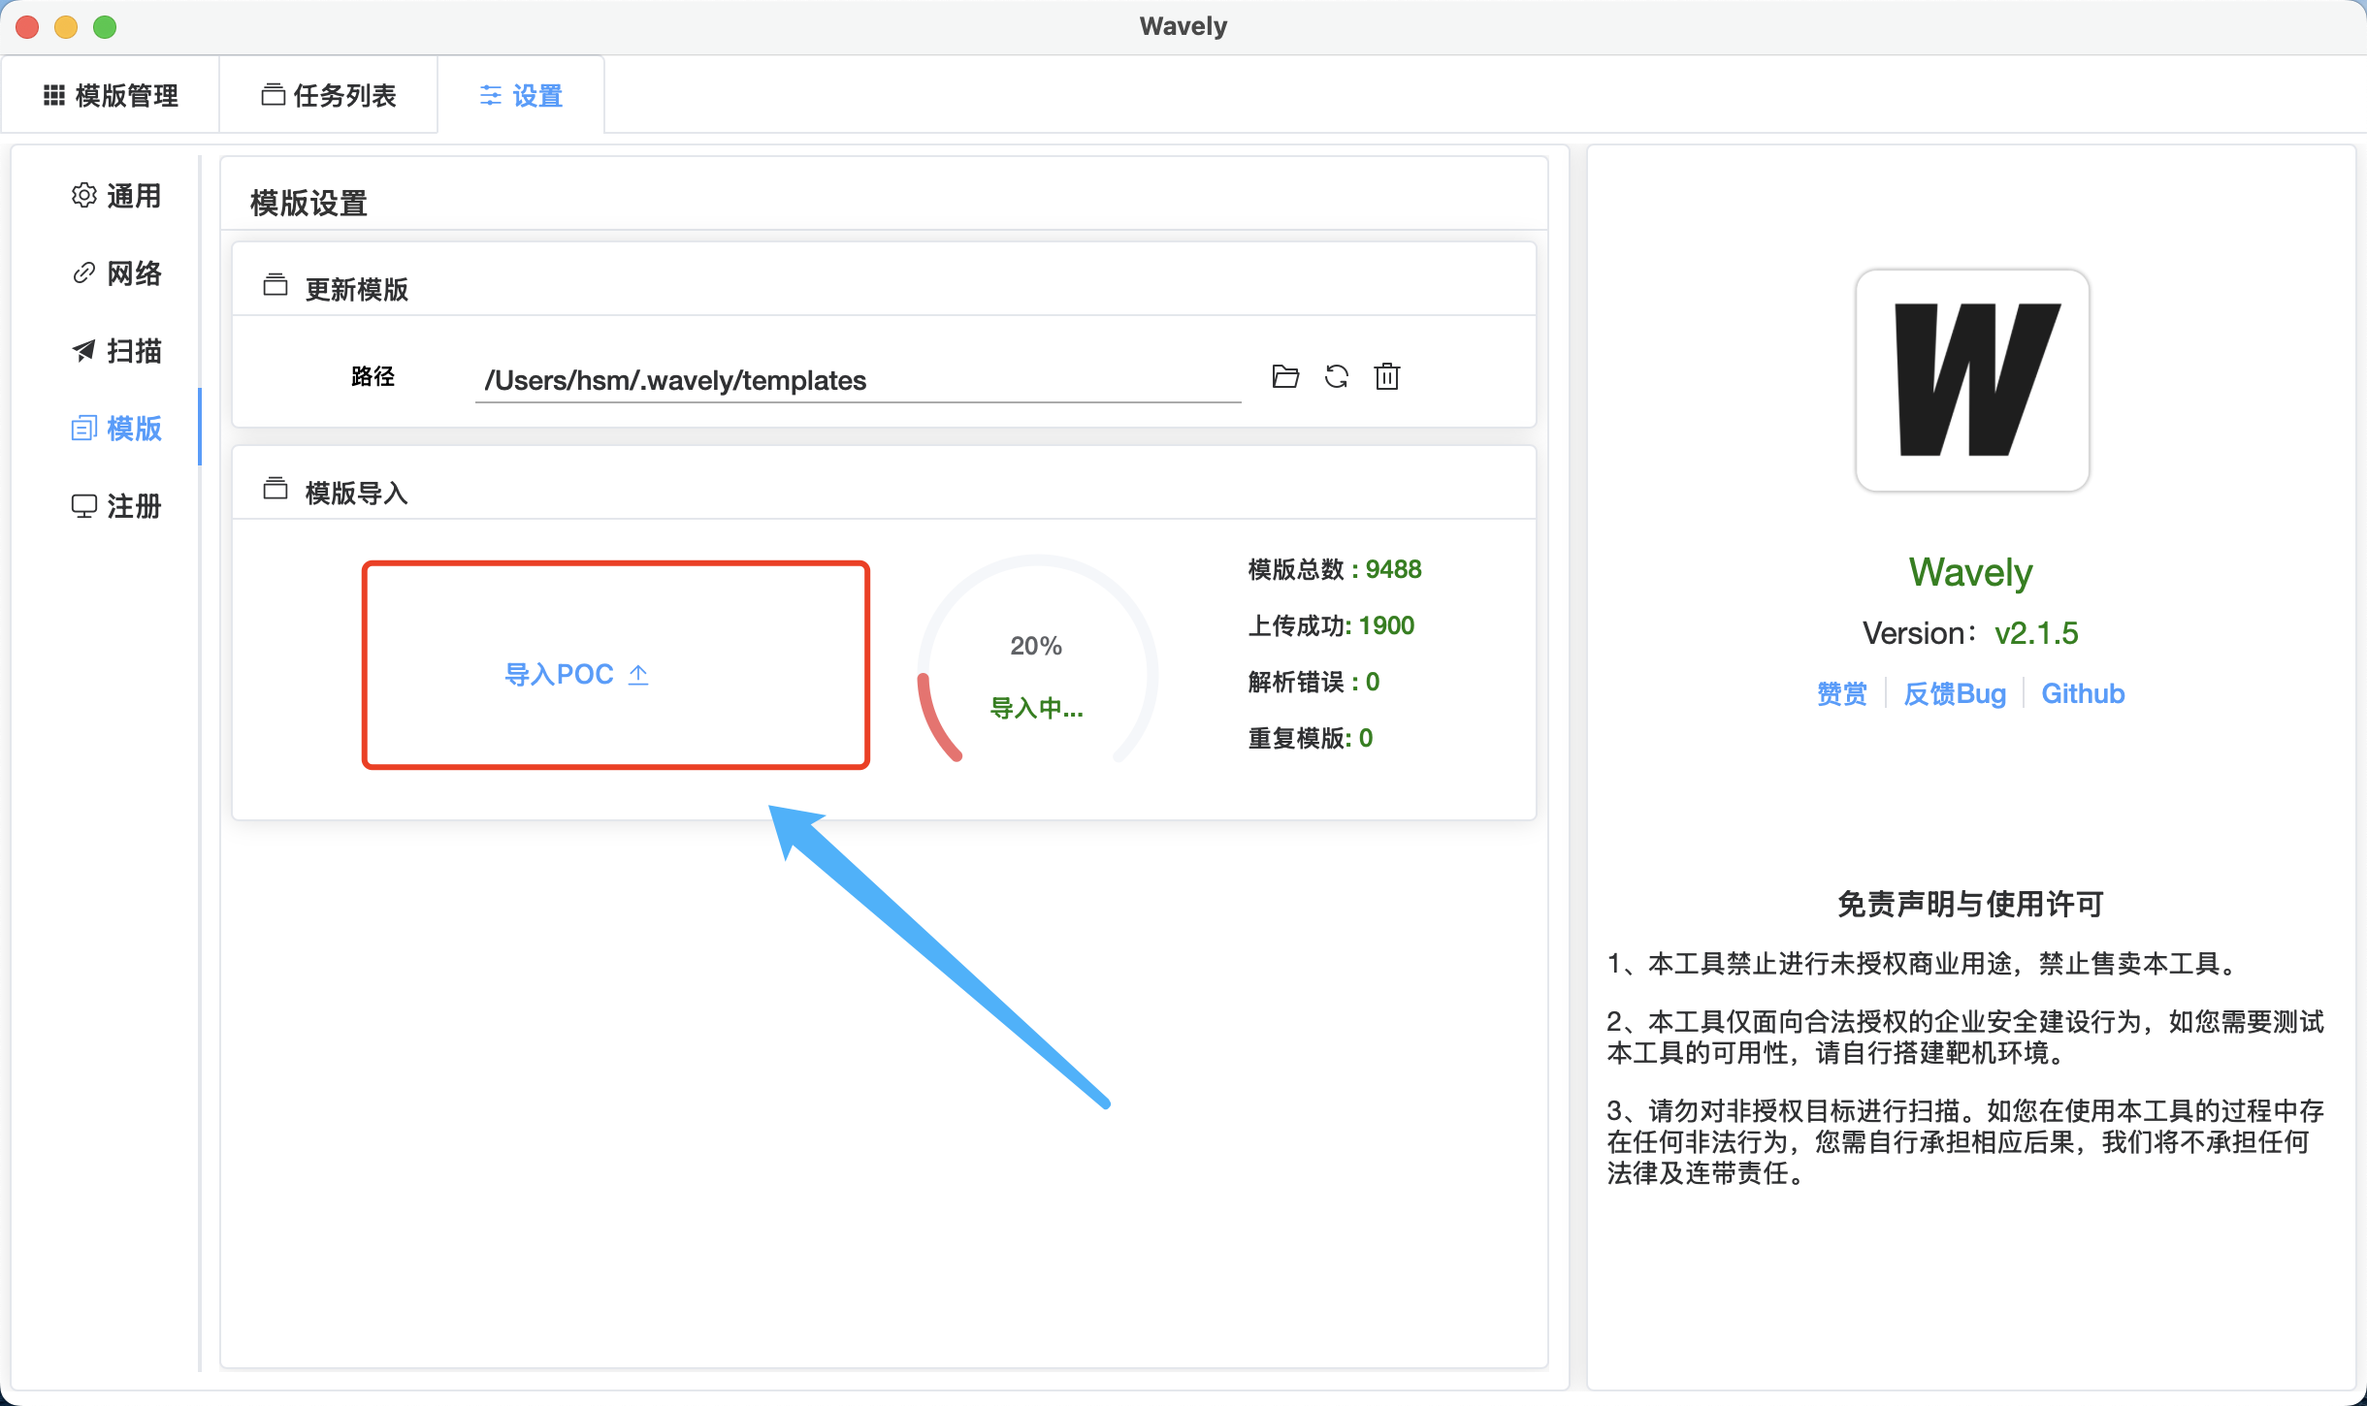
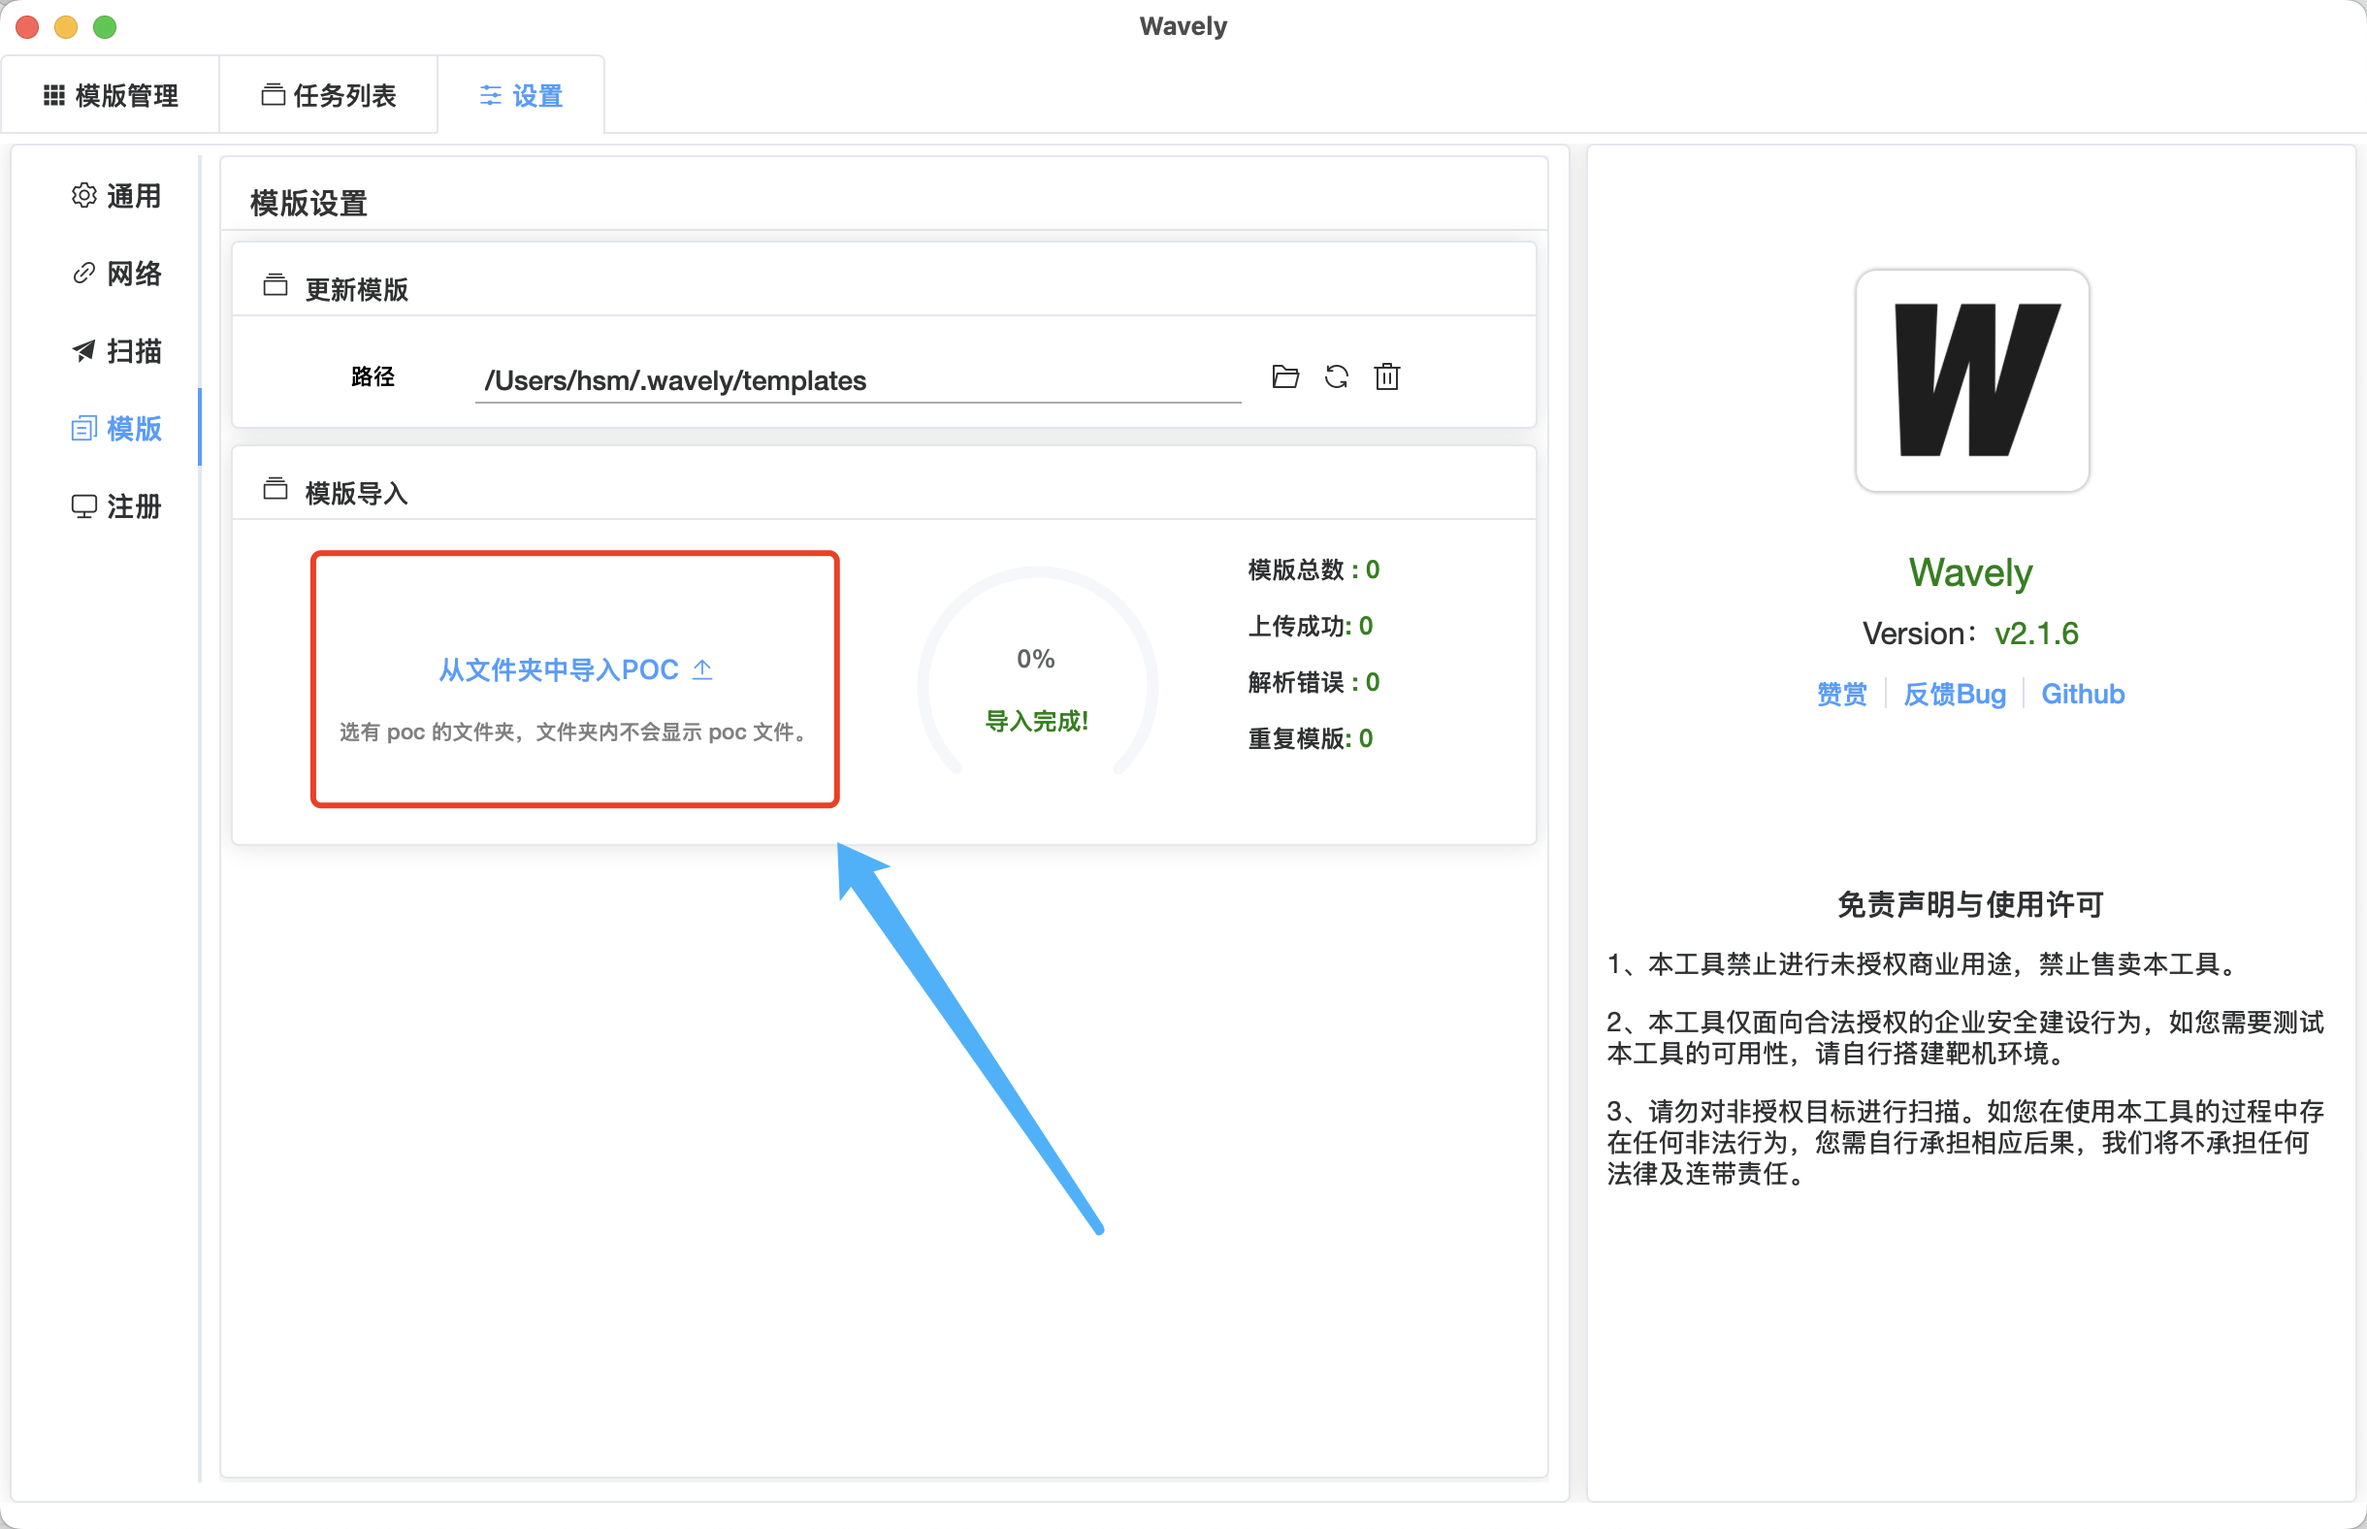
v2.1.6

diff --git a/README.md b/README.md
@@ -1,128 +1,109 @@
-## 1. wavely
+## Wavely - 高效便捷的 Nuclei POC 图形化管理利器
 
-- 一款便捷、实用的 POC 管理工具。
-- A convenient and practical Nuclei POC management tool.
+Wavely，一款为 Nuclei POC 管理打造的图形化工具。
 
-
-![main](imgs/2.png)
-
-- 下载链接：https://github.com/perlh/Wavely/releases/tag/v2.1.3
-- 开发Wavely投入了大量时间精力，只为它功能更强、运行更稳。若您使用时感受到价值，烦请[捐赠](#捐赠)，您的支持是我持续优化APP的动力，感谢！ 
-- **本工具严禁通过其他平台进行售卖**！
+![main](imgs/p1.png)
 
 
-### ✨ 功能
-- [x] 实现 `nuclei` `poc` 管理的桌面应用，对 `nuclei` 模版的增删查改操作
-- [x] 支持`MacOS`、`Windows`和`Linux`操作系统
-- [x] 实现`选择多个POC`、`多个扫描任务`和`多目标`并行扫描
-- [x] 支持自定义 `DNSLOG服务器`，支持`自定义扫描速率`和支持`http代理`（http、https、socks5）
-- [x] 支持查看 POC 匹配到的请求包和响应包
-- [x] 使用全新`nuclei v3`检测引擎，兼容 yamlv2 和 yamlv3 nuclei template
-- [x] 支持 **POC 编辑器**主题切换
-- [x] 支持多种 `nuclei` 模版导入方式
-- [x] 支持 `nuclei` 模版去重导入
-- [x] 支持国际化（支持**简体中文**和**英文**，已覆盖大部分区域）
-- [x] 支持手动停止扫描任务
-- [x] 支持配置持久化
-- [x] 支持API扫描（支持带目录扫描，如：http://target.com/api）
-- [x] 支持图形化生成poc（简单poc）
+1. **安装包获取**：前往下载链接下载安装包，开启高效管理之旅。
+2. **捐赠支持**：若 Wavely 助力您提升工作效率，诚邀[捐赠](#捐赠)，您的支持是持续优化的关键动力，深表感谢！
+3. **常见问题**：关于使用与安装的常见疑问，可跳转至 [常见问题](#常见问题) 板块查阅。
 
-#### English
 
-- [x] A desktop application for managing `nuclei` `POC`, with operations of adding, deleting, querying and modifying `nuclei` templates.
-- [x] Support operating systems including `MacOS`, `Windows` and `Linux`.
-- [x] Realize parallel scanning of `selecting multiple POCs`, `multiple scanning tasks` and `multiple targets`.
-- [x] Support customizing `DNSLOG server`, support `customizing scanning rate` and support `http proxy` (http, https, socks5).
-- [x] Support viewing the request packets and response packets matched by POC.
-- [x] Use the brand-new `nuclei v3` detection engine, which is compatible with yamlv2 and yamlv3 nuclei templates.
-- [x] Support theme switching for the **POC editor**.
-- [x] Support multiple ways of importing `nuclei` templates.
-- [x] Support deduplicating and importing `nuclei` templates.
-- [x] Support internationalization (support **Simplified Chinese** and **English**).
-- [x] Support manually stopping scanning tasks.
-- [x] Support configuration persistence.
-- [x] Support API scanning (support scanning with directories, for example: http://target.com/api). 
+#### ✨ 功能一览
 
-## 2. 安装
-#### MacOS
-1. 下载相应压缩包并解压，解压文件夹中包含 `Wavely.app`和 `Applications文件夹`。
-2. 将`Wavely.app`拖到`Applications文件夹`中
-3. 终端执行:`sudo xattr -d com.apple.quarantine /Applications/Wavely.app`
+- [x] 实现对nuclei模板的`添加`、`删除`、`查询`以及`修改`操作。
+- [x] 兼容`MacOS`、`Windows`和`Linux`操作系统。
+- [x] 实现`选择多个POC`、`多个扫描任务`以及`多目标`的并行扫描功能。
+- [x] 支持`自定义DNSLOG服务器`，`自定义扫描速率`，同时`支持http代理（http、https、socks5）`。
+- [x] 支持查看 POC 匹配到的`请求包与响应包`。
+- [x] 支持 POC 编辑器的`主题切换`。
+- [x] 支持nuclei`模板一键导入`(选择POC文件夹即可导入，可实现nuclei模版去重导入，基于template id)。
 
-## 3. 使用
-### 3.1 POC导入
-##### 在App中导入POC（带POC去重）
-- 点击`从文件夹中导入`按钮，选择`nuclei poc文件目录`。
+- [x] 支持`国际化`，已广泛覆盖大部分区域。
+- [x] 支持`手动停止扫描`任务，便于灵活控制扫描进程。
+- [x] 支持`配置持久化`，确保用户配置信息持久化保存。
+- [x] 支持 `API 扫描`，包括带目录扫描（如：http://target.com/api）。
+- [x] 支持`图形化生成简单poc`，降低 poc 生成门槛。
 
-![alt text](imgs/view1.png)
 
-### 3.2 创建扫描任务
-##### 3.2.1 选择指定`POC`，点击顶部`扫描按钮`
-- 不选择poc，则对搜索结果进行全扫描
-- 选择poc后，则对选择的poc进行扫描
+## 1、安装指南
+#### 1.1 MacOS 安装步骤
+1. 下载对应压缩包并解压，解压文件夹内包含`Wavely.app`和`Applications`文件夹。
+2. 将`Wavely.app`拖移至`Applications`文件夹中。
+3. 在终端执行：`sudo xattr -d com.apple.quarantine /Applications/Wavely.app` 。
 
-![main](imgs/view2.png)
-##### 3.2.2 扫描结果
-- 点击POC ID可跳转到POC编辑界面
+#### 1.2 Windows 安装步骤
+1. 下载对应压缩包并解压，执行Wavely-xxx-installer.exe安装程序
+
+####  1.3 DNSLOG 设置说明
+- 系统默认采用 Nuclei 默认 DNSLOG 服务。
+- 如需搭建个人 Nuclei DNSLOG 服务器，可参考：[搭建指南](https://github.com/projectdiscovery/interactsh) 。
+
+## 2、使用教程
+#### 2.1 注册
+依次点击设置 -> 注册，在注册页面按提示获取设备 ID，完成证书申请后上传证书，即可注册成功。
+#### 2.2 导入方法
+##### 在 App 中导入 POC（具备去重功能）
+- 点击`从文件夹中导入POC`按钮，选择存放` nuclei poc `文件的目录。
+- 系统将自动识别并导入所选目录内的所有 POC 文件，导入过程实时显示进度与文件数量，若存在基于 template id 的重复 POC，系统将自动去重，完成后弹窗告知导入结果。
+
+![alt text](imgs/p2.png)
+
+#### 2.3 创建扫描任务流程
+##### 任务发起操作
+- 选择指定POC后，点击顶部扫描按钮即可启动扫描。
+    - 若未选择 POC，系统将对搜索结果执行全扫描；
+    - 若已选择 POC，则仅针对所选 POC 进行扫描。
+- 此外，点击扫描按钮前，可在任务设置区域自定义扫描速率等参数。
+
+
+![main](imgs/p3.png)
+##### 扫描结果查看
+- 扫描完成后，点击` POC ID `可直接跳转到` POC 编辑界面，方便进一步分析与调整。
 
 ![main](imgs/1.png)
 
 
-###  3.3 Nuclei 模版编辑/添加
-#### 3.3.1 编辑poc
+####  2.4 Nuclei 模版编辑 / 添加操作
+##### 编辑poc
 ![main](imgs/4.png)
 
-####  3.3.2  查看请求/响应包（需检测匹配成功）
+##### 查看请求 / 响应包（需检测匹配成功）
 ![main](imgs/3.png)
 
-####  3.3.3  图形化生成poc
-![main](imgs/5.png)
+#####  图形化生成 POC
+- **表单形式请求包**：通过直观的表单填写方式。
 
+![main](imgs/p4.png)
 
-### 3.4 App设置
-#### 3.4.1 通用设置
-1. 可切换POC编辑器主题
-2. 选择语言
+- **raw 格式请求包**：支持以 raw 格式编辑和生成请求包。
 
-![main](imgs/view7.png)
-##### 3.4.2 网络设置
-- 添加HTTP代理
+![main](imgs/p5.png)
 
-![main](imgs/view8.png)
+- **测试功能**：生成 POC 后，可点击测试按钮快速验证其有效性。
 
-##### 3.4.3 扫描设置
-- POC扫描参数设置
-- 设置扫描并发数
-
-![main](imgs/view9.png)
-##### 3.4.4  模版设置
-- 更新数据库
-- 导入模版
-
-![main](imgs/view10.png)
+![main](imgs/p6.png)
 
 
 
-
-
-
-
-
-### 常见问题
-##### Windows启动时闪现弹出命令框
-为正常现象，不影响App的功能
-#####  Macos 无法打开App
-由于没有使用apple证书签名app，可能会提示解除安全验证：`软件显示禁止符号` 或 `无法验证软件身份` 或 `提示已损坏故不能正常打开`，请参考：
+## 常见问题
+#### Windows 启动时闪现命令框
+此为正常现象，不会对 App 功能产生任何影响，可放心使用。
+####  Macos 无法打开App
+因未使用 Apple 证书签名 App，可能出现解除安全验证提示，如**软件显示禁止符号** 、 **无法验证软件身份** 或 **提示已损坏故不能正常打开** ，可参考以下方案解决：
 
 ##### 方案1
-执行如下命令即可：
+在终端执行命令：
 ``` bash
-sudo xattr -d com.apple.quarantine Applications/Wavely.app
+sudo xattr -d com.apple.quarantine /Applications/Wavely.app
 ```
 ##### 方案2
+执行命令：
 ``` bash
-chmod 755 /Users/$USER/Desktop/Wavely_darwin_arm64_1.5.2.app/Contents/MacOS/Wavely
+chmod 755 /Applications/Wavely.app/Contents/MacOS/Wavely
 ```
+
 
 # 免责声明
 本工具仅面向合法授权的企业安全建设行为，如您需要测试本工具的可用性，请自行搭建靶机环境。 为避免被恶意使用，本项目所有收录的poc均为漏洞的理论判断，不存在漏洞利用过程，不会对目标发起真实攻击和漏洞利用。 在使用本工具进行检测时，您应确保该行为符合当地的法律法规，并且已经取得了足够的授权。请勿对非授权目标进行扫描。 如您在使用本工具的过程中存在任何非法行为，您需自行承担相应后果，我们将不承担任何法律及连带责任。
